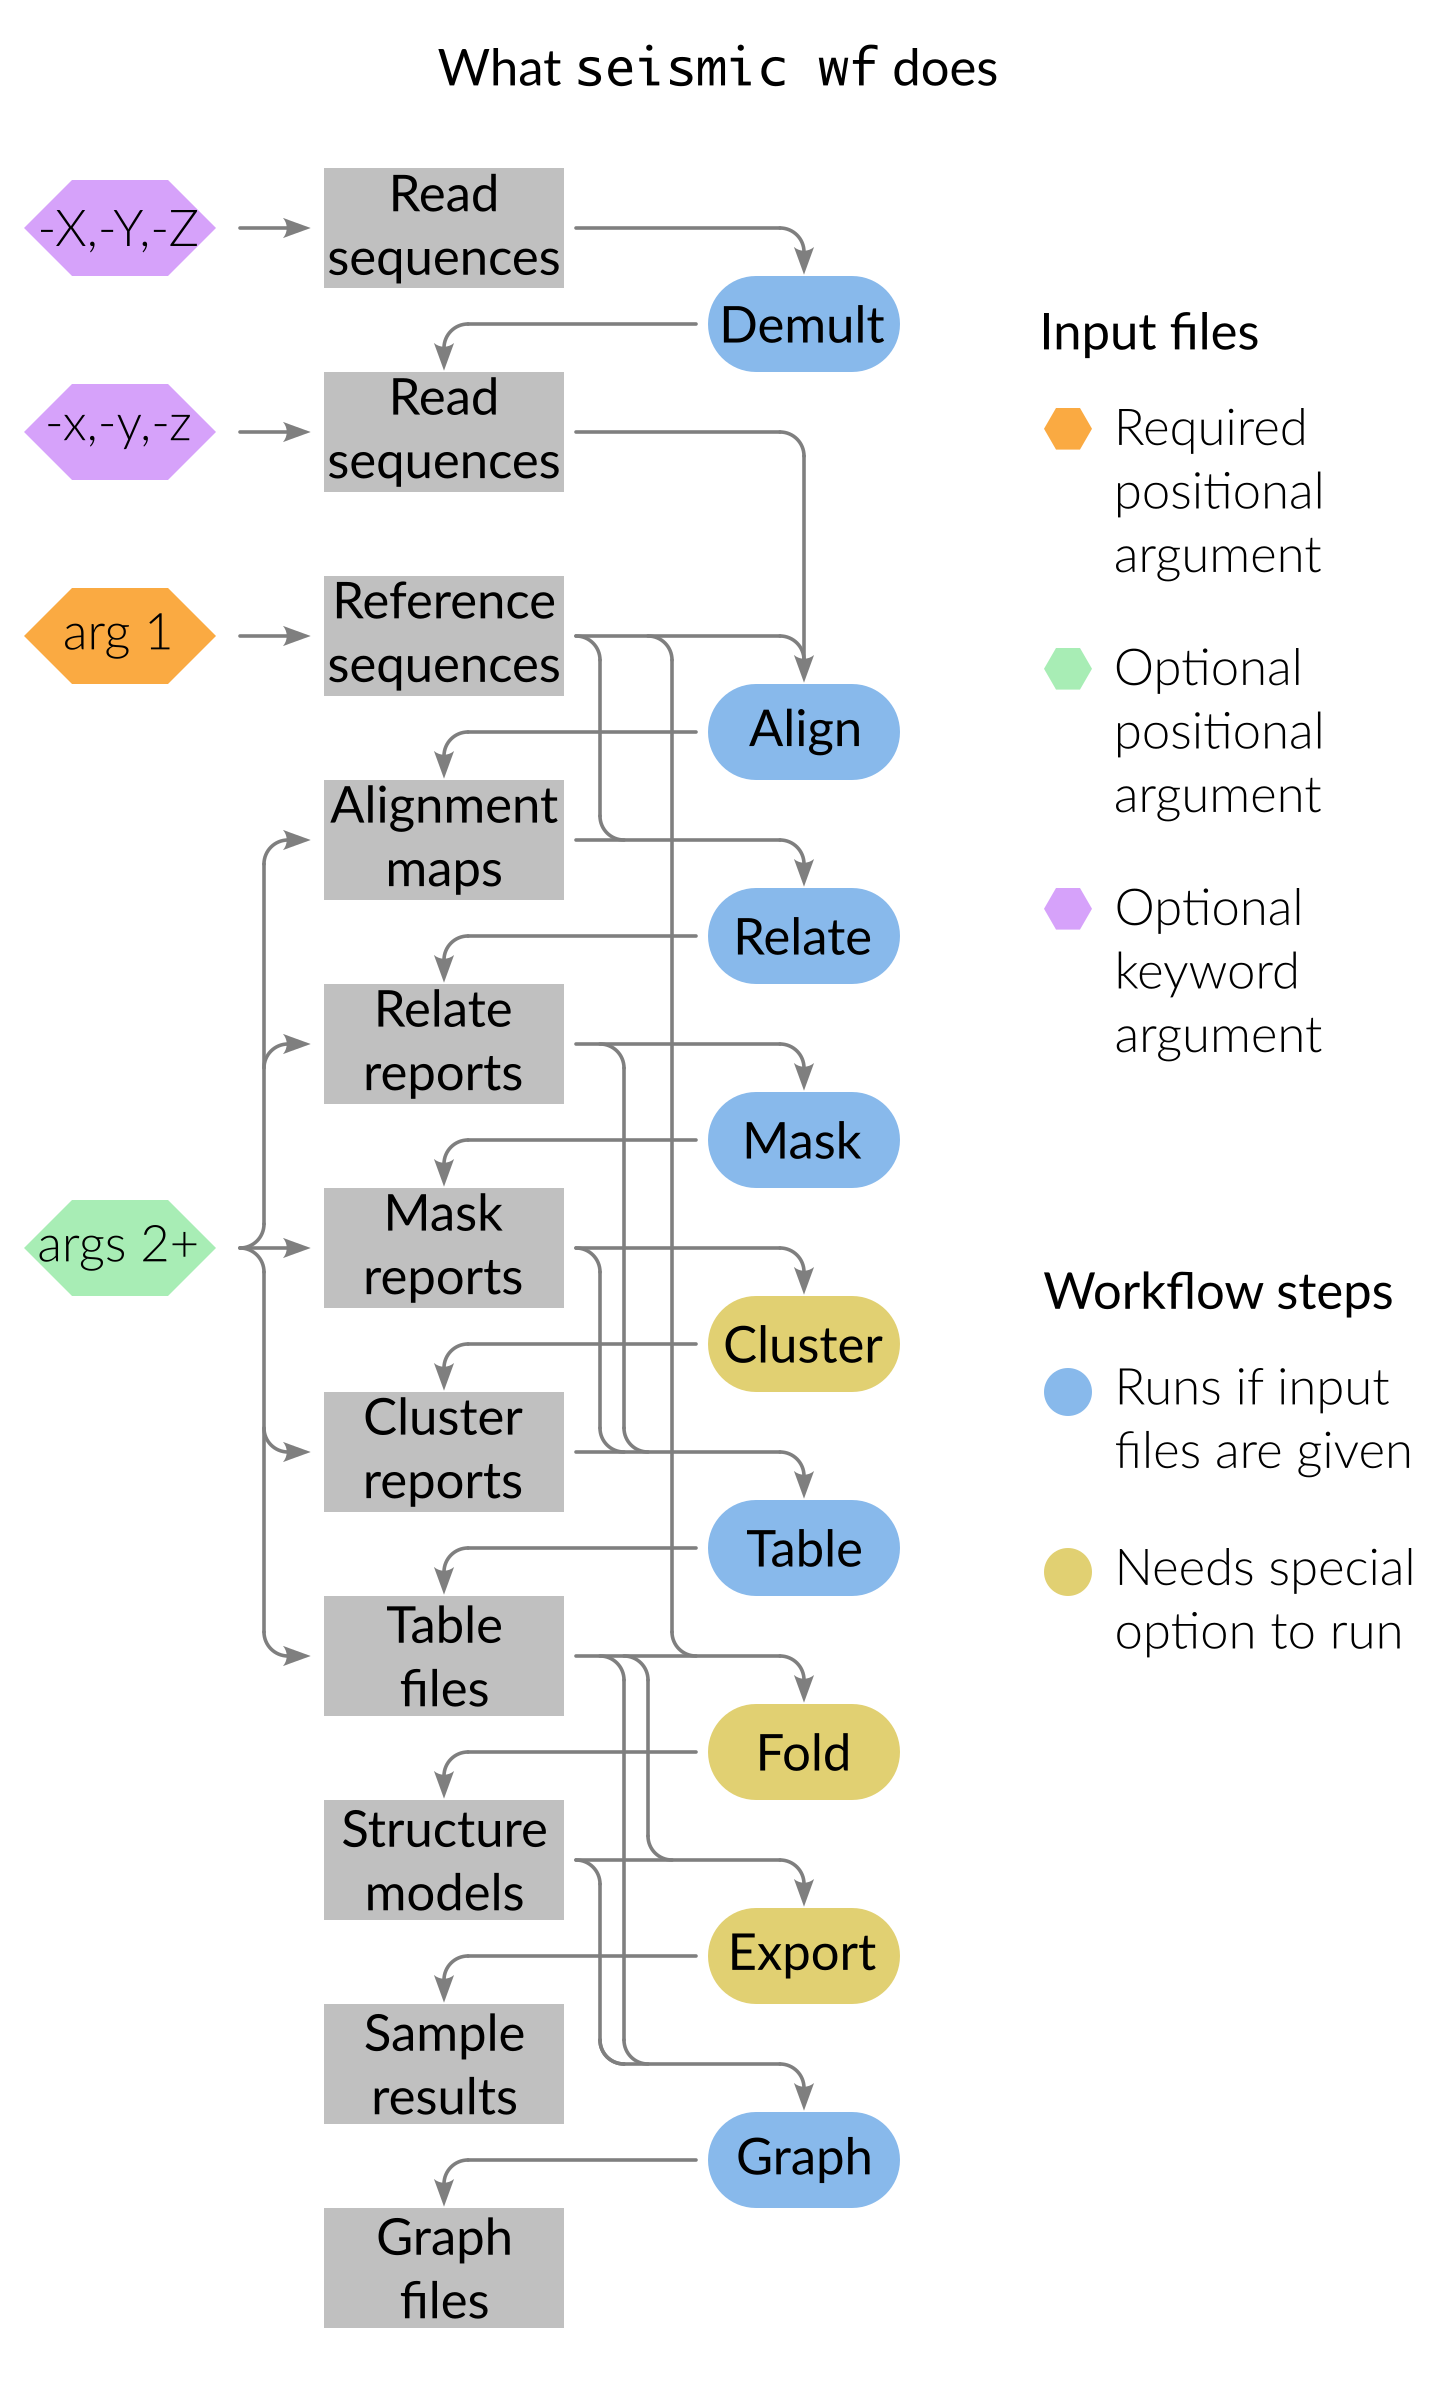
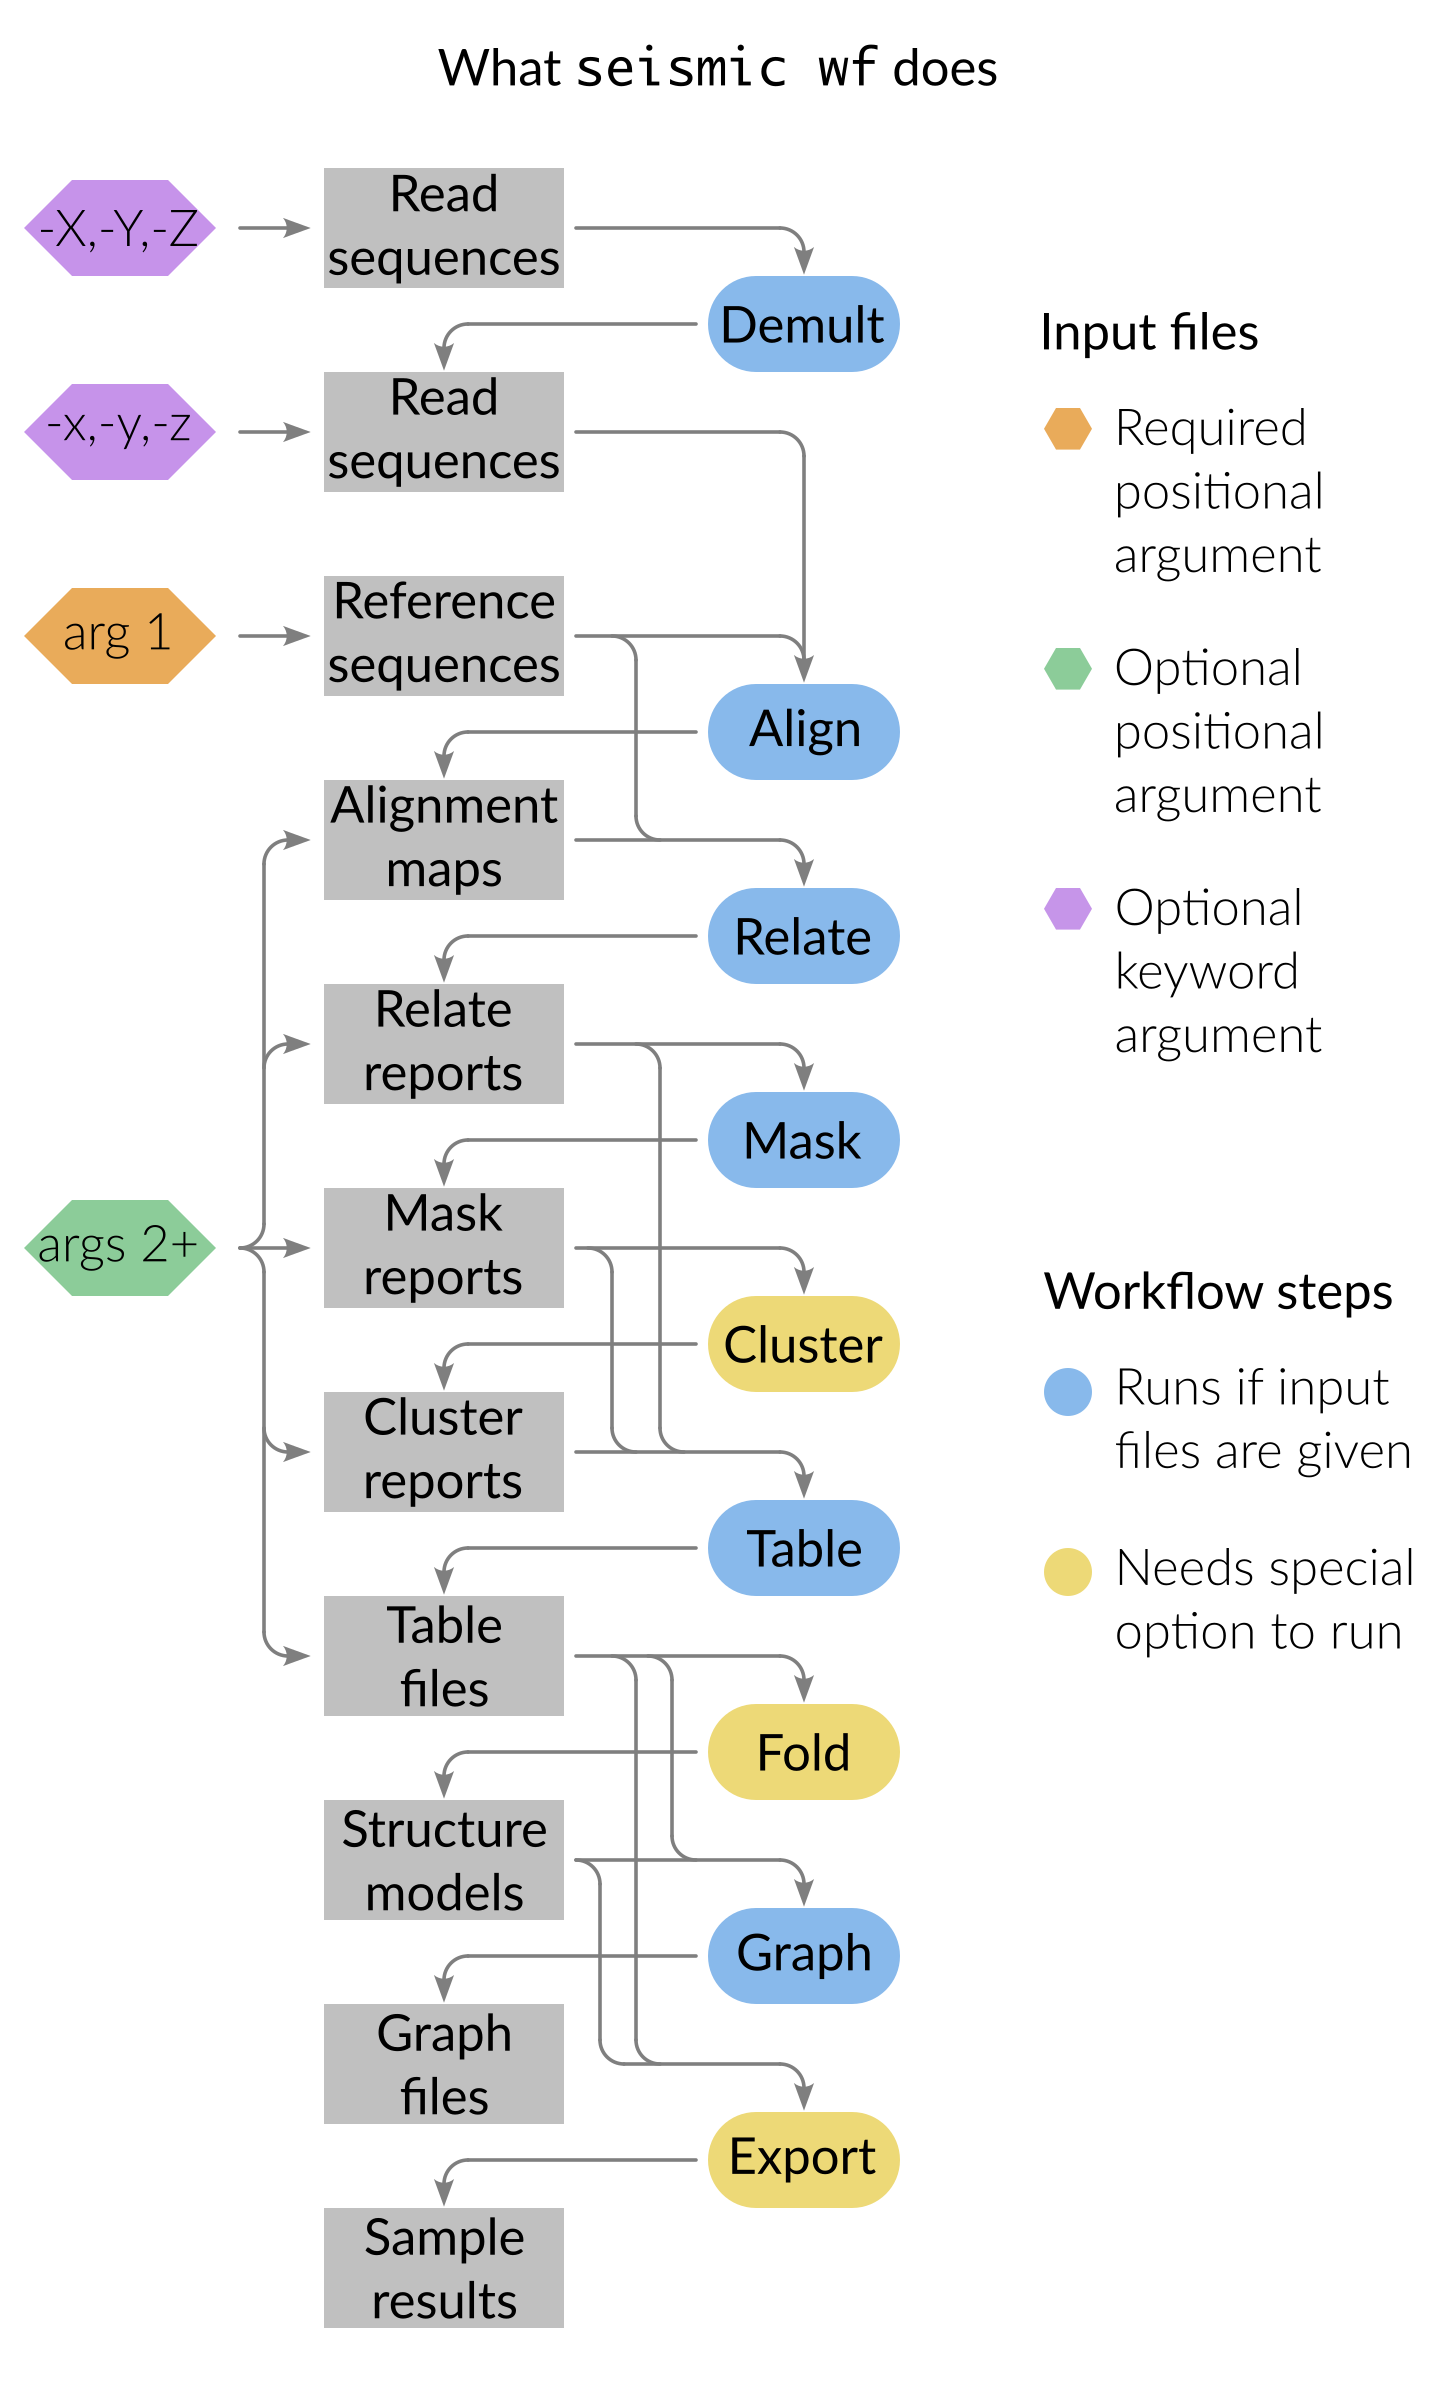
Make Fold pull reference sequences from the Relate step instead of from a reference sequence file

diff --git a/src/seismicrna/fold/main.py b/src/seismicrna/fold/main.py
@@ -10,7 +10,6 @@ from ..core.arg import (CMD_FOLD,
                         arg_input_path,
                         opt_temp_dir,
                         opt_keep_temp,
-                        arg_fasta,
                         opt_sections_file,
                         opt_coords,
                         opt_primers,
@@ -24,7 +23,9 @@ from ..core.extern import (RNASTRUCTURE_CT2DOT_CMD,
                            require_dependency)
 from ..core.parallel import as_list_of_tuples, dispatch, lock_temp_dir
 from ..core.rna import RNAProfile
-from ..core.seq import DNA, RefSections, Section, parse_fasta
+from ..core.seq import DNA, RefSections, RefSeqs, Section
+from ..relate.data import RelateLoader
+from ..relate.report import RelateReport
 from ..table.base import MaskPosTable, ClustPosTable
 from ..table.load import load_pos_tables
 
@@ -33,7 +34,6 @@ logger = getLogger(__name__)
 DEFAULT_QUANTILE = 0.95
 
 params = [
-    arg_fasta,
     arg_input_path,
     opt_sections_file,
     opt_coords,
@@ -56,8 +56,7 @@ def cli(*args, **kwargs):
 
 @lock_temp_dir
 @docdef.auto()
-def run(fasta: str,
-        input_path: tuple[str, ...],
+def run(input_path: tuple[str, ...],
         *,
         sections_file: str | None,
         coords: tuple[tuple[str, int, int], ...],
@@ -77,17 +76,30 @@ def run(fasta: str,
         logger.warning("Fold needs normalized mutation rates, but got quantile "
                        f"= {quantile}; setting quantile to {DEFAULT_QUANTILE}")
         quantile = DEFAULT_QUANTILE
+    # Gather the tables and reference sequences.
+    tables = list()
+    ref_seqs = RefSeqs()
+    for table in load_pos_tables(input_path):
+        # Fold can use only positional tables from Mask and Cluster.
+        if isinstance(table, (MaskPosTable, ClustPosTable)):
+            tables.append(table)
+            # Fetch the reference sequence from the Relate step.
+            ref_seqs.add(
+                table.ref,
+                RelateLoader.load(
+                    RelateReport.build_path(top=table.top,
+                                            sample=table.sample,
+                                            ref=table.ref)
+                ).refseq
+            )
     # Get the sections for every reference sequence.
-    ref_sections = RefSections(parse_fasta(Path(fasta), DNA),
+    ref_sections = RefSections(ref_seqs,
                                sects_file=(Path(sections_file)
                                            if sections_file
                                            else None),
                                coords=coords,
                                primers=primers,
                                primer_gap=primer_gap)
-    # Initialize the table loaders.
-    tables = [table for table in load_pos_tables(input_path)
-              if isinstance(table, (MaskPosTable, ClustPosTable))]
     # Fold the RNA profiles.
     return list(chain(dispatch(fold_profile,
                                max_procs,

diff --git a/src/seismicrna/core/seq/refs.py b/src/seismicrna/core/seq/refs.py
@@ -1,0 +1,40 @@
+
+from typing import Iterable
+
+from .xna import CompressedSeq, XNA
+
+
+class RefSeqs(object):
+    """ Store reference sequences. """
+
+    def __init__(self, seqs: Iterable[tuple[str, XNA]] = ()):
+        self._data: dict[str, CompressedSeq] = dict()
+        for name, seq in seqs:
+            self.add(name, seq)
+
+    def add(self, name: str, seq: XNA):
+        """ Add a sequence to the collection via its name. """
+        compressed = seq.compress()
+        try:
+            # Check whether this name was already used for a sequence.
+            other = self._data[name]
+        except KeyError:
+            # If not, then compress and store the sequence.
+            self._data[name] = compressed
+        else:
+            # If so, then confirm all sequences with this name match.
+            if compressed != other:
+                raise ValueError(f"Got multiple sequences for {repr(name)}: "
+                                 f"{seq} ≠ {other.decompress()}")
+
+    def get(self, name: str):
+        """ Get a sequence from the collection via its name. """
+        return self._data[name].decompress()
+
+    def iter(self):
+        """ Yield every sequence and its name. """
+        for name, seq in self._data.items():
+            yield name, seq.decompress()
+
+    def __iter__(self):
+        return self.iter()

diff --git a/src/seismicrna/core/seq/section.py b/src/seismicrna/core/seq/section.py
@@ -18,6 +18,7 @@ from typing import Iterable, Sequence
 import numpy as np
 import pandas as pd
 
+from .refs import RefSeqs
 from .xna import BASEA, BASEC, DNA
 
 logger = getLogger(__name__)
@@ -802,7 +803,7 @@ class RefSections(object):
     """ A collection of sections, grouped by reference. """
 
     def __init__(self,
-                 refseqs: Iterable[tuple[str, DNA]], *,
+                 ref_seqs: Iterable[tuple[str, DNA]], *,
                  sects_file: Path | None = None,
                  coords: Iterable[tuple[str, int, int]] = (),
                  primers: Iterable[tuple[str, DNA, DNA]] = (),
@@ -826,7 +827,7 @@ class RefSections(object):
         ref_primers = get_coords_by_ref(primers)
         # For each reference, generate sections from the coordinates.
         self._sections: dict[str, dict[tuple[int, int], Section]] = dict()
-        for ref, seq in refseqs:
+        for ref, seq in RefSeqs(ref_seqs):
             self._sections[ref] = dict()
             for end5, end3 in ref_coords[ref]:
                 # Add a section for each pair of 5' and 3' coordinates.

diff --git a/src/seismicrna/core/arg/cli.py b/src/seismicrna/core/arg/cli.py
@@ -722,13 +722,28 @@ opt_table_clust = Option(
     help="Tabulate per cluster"
 )
 
-# RNA structure prediction
+# Fold
 
 opt_fold = Option(
     ("--fold/--no-fold",),
     type=bool,
     default=False,
     help="Predict the secondary structure using the RNAstructure Fold program"
+)
+
+opt_fold_md = Option(
+    ("--fold-md",),
+    type=int,
+    default=0,
+    help="Maximum distance between two paired bases in predicted structures "
+         "(use 0 for no limit)"
+)
+
+opt_fold_t = Option(
+    ("--fold-t",),
+    type=float,
+    default=310.15,
+    help="Temperature at which to predict structures (in Kelvin)"
 )
 
 opt_quantile = Option(
@@ -738,7 +753,7 @@ opt_quantile = Option(
     help="Quantile for normalizing ratios of mutation rates; must be in [0, 1]"
 )
 
-# Graphing
+# Graph
 
 opt_comppair = Option(
     ("--comppair/--no-comppair",),

diff --git a/src/seismicrna/core/seq/xna.py b/src/seismicrna/core/seq/xna.py
@@ -316,6 +316,14 @@ class CompressedSeq(object):
         """ Restore the original sequence. """
         return decompress(self)
 
+    def __eq__(self, other):
+        if not isinstance(other, CompressedSeq):
+            return NotImplemented
+        return (self.r == other.r
+                and self.s == other.s
+                and self.b == other.b
+                and self.n == other.n)
+
 
 @cache
 def _base_to_index(base: str, alph: tuple[str, str, str, str]):

diff --git a/src/seismicrna/export/web.py b/src/seismicrna/export/web.py
@@ -313,7 +313,6 @@ def run(input_path: tuple[str, ...], *,
                      if refs_meta
                      else dict())
     for table in load_all_tables(input_path):
-        print("TABLE:", table)
         if isinstance(table, (MaskTable, ClustTable, ClustFreqTable)):
             tables[(table.top, table.sample)].append(table)
     return list(dispatch(export_sample,

diff --git a/src/seismicrna/workflow/main.py b/src/seismicrna/workflow/main.py
@@ -317,7 +317,6 @@ def run(*,
     if fold:
         fold_mod.run(
             input_path=input_path,
-            fasta=fasta,
             sections_file=sections_file,
             coords=coords,
             primers=primers,

diff --git a/src/seismicrna/core/seq/__init__.py b/src/seismicrna/core/seq/__init__.py
@@ -1,4 +1,5 @@
 from .fasta import *
+from .refs import *
 from .section import *
 from .xna import *
 

diff --git a/src/docs/howto/run/fold.rst b/src/docs/howto/run/fold.rst
@@ -5,14 +5,6 @@ Fold: Predict RNA secondary structures using mutation rates
 Fold: Input files
 ^^^^^^^^^^^^^^^^^^^^^^^^^^^^^^^^^^^^^^^^^^^^^^^^^^^^^^^^^^^^^^^^^^^^^^^^^^^^^^^^
 
-Fold input file: Reference sequences
-""""""""""""""""""""""""""""""""""""""""""""""""""""""""""""""""""""""""""""""""
-
-You need one file of reference sequences in FASTA format (for details on this
-format, see :doc:`../../formats/data/fasta`).
-If your file has characters or formatting incompatible with SEISMIC-RNA, then
-you can fix it using the :doc:`../cleanfa` tool.
-
 Fold input file: Mask or Cluster positional table
 """"""""""""""""""""""""""""""""""""""""""""""""""""""""""""""""""""""""""""""""
 
@@ -26,9 +18,7 @@ See :doc:`../inputs` for ways to list multiple files.
 To predict structures using the mutational profiles in all valid tables in the
 directory ``{out}``, you could use the command ::
 
-    seismic fold {refs.fa} {out}
-
-where ``{refs.fa}`` is the path to the file of reference sequences.
+    seismic fold {out}
 
 Fold: Settings
 ^^^^^^^^^^^^^^^^^^^^^^^^^^^^^^^^^^^^^^^^^^^^^^^^^^^^^^^^^^^^^^^^^^^^^^^^^^^^^^^^

diff --git a/src/docs/howto/run/wf.rst b/src/docs/howto/run/wf.rst
@@ -50,7 +50,7 @@ You can give any input file to ``seismic wf`` if you could give it to any
 individual command in the workflow.
 
 The only required input file is of the reference sequences, which is used by the
-Align, Fold, and Relate steps; see :ref:`relate_refs` for more information.
+Align and Relate steps; see :ref:`relate_refs` for more information.
 This file must be the first positional argument::
 
     seismic wf {refs.fa}
